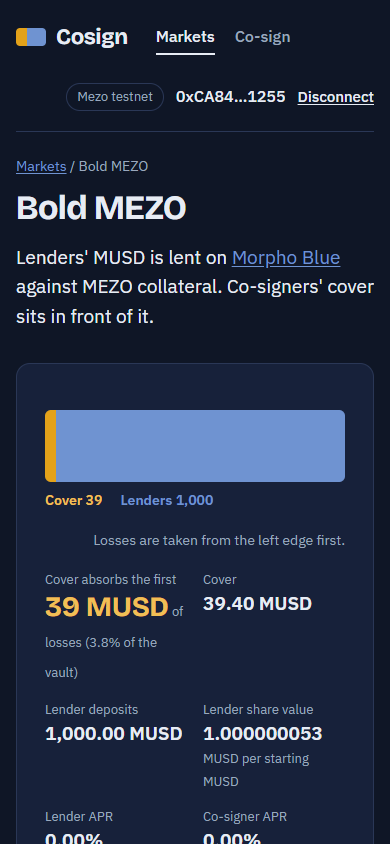
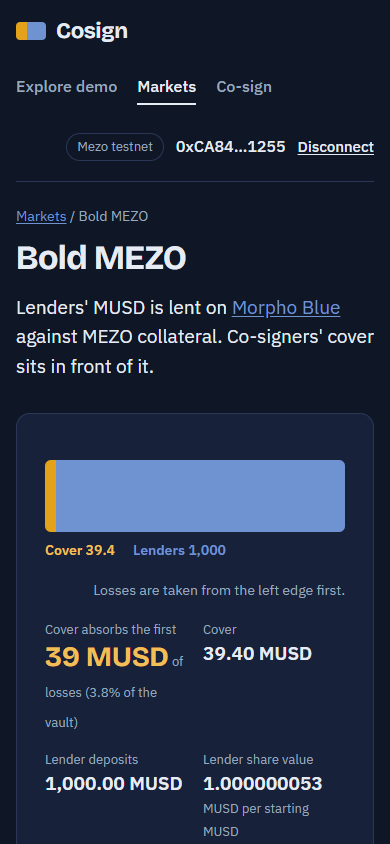
docs: add real-wallet acceptance checklist, refresh screenshots and README
The wallet checklist is marked not run; no browser-wallet flow is claimed
as passed.

diff --git a/docs/WALLET_ACCEPTANCE.md b/docs/WALLET_ACCEPTANCE.md
@@ -1,0 +1,107 @@
+# Real-wallet acceptance checklist
+
+**Status: BLOCKED. Not run.** The engineering session has no wallet extension, so no result below is a pass. Every row stays `NOT RUN` until a person completes it with MetaMask (or another EIP-1193 wallet) and records what they saw. The test-only wallet shim used during development is **not** valid evidence and must not be used here.
+
+Run it against the production build, so you test what judges will get:
+
+```bash
+cd web
+npm ci
+npm run build
+npm run preview        # serves the production bundle at http://localhost:4173
+```
+
+Open the printed URL in a browser with the wallet extension. (Once hosted, use the public URL instead.)
+
+## Before you start (about 20 minutes)
+
+Use a **fresh test account** in the wallet. Never use an account that holds real funds.
+
+| You need | How to get it (testnet only) |
+|---|---|
+| BTC for gas | Mezo testnet faucet. It has a CAPTCHA, so you complete it. |
+| MEZO | Mezo testnet faucet. |
+| MUSD | Open a small trove on Mezo testnet, **or** ask engineering to send testnet MUSD from the deployer wallet. Testnet tokens have no value. |
+| A veBTC lock (for voting) | Lock a little testnet BTC in Mezo's veBTC lock page, **or** ask engineering to transfer a testnet veBTC position to your account. |
+
+Suggested amounts: 150 MUSD, 20 MEZO, a few cents of testnet BTC for gas.
+
+## How to record a result
+
+For each row, write PASS, FAIL or SKIP, the date, and one line on what you saw. For any FAIL, attach a screenshot and the transaction link from the toast. Mark a row PASS only if the **expected** column happened exactly.
+
+## A. Connect, network, accounts
+
+| # | Steps | Expected | Result |
+|---|---|---|---|
+| A1 | Open the app in a browser **without** a wallet extension. Click Connect wallet. | A clear message that no browser wallet was found. Explore demo still works. | NOT RUN |
+| A2 | With the wallet installed, click Connect wallet. | Wallet asks for permission, then the header shows your short address and Disconnect. | NOT RUN |
+| A3 | Click Disconnect. | Header returns to Connect wallet. No positions shown. Reloading does not reconnect silently. | NOT RUN |
+| A4 | Remove Mezo testnet from the wallet, then Connect. | Wallet offers to add the network (chain 31611, RPC `rpc.test.mezo.org`, symbol BTC). Approve. | NOT RUN |
+| A5 | Switch the wallet to another network (for example Ethereum). | A red banner says the wallet is on another network, with a Switch button. Switch works. | NOT RUN |
+| A6 | Switch to a second account in the wallet while on a market page. | Positions update to the new account. The old account's numbers never show. | NOT RUN |
+| A7 | Reject the connect or network request in the wallet. | A plain message ("You rejected the request in your wallet."). No crash. | NOT RUN |
+
+## B. Lending (senior)
+
+| # | Steps | Expected | Result |
+|---|---|---|---|
+| B1 | Open a market that is **not** under-covered (post cover first in C2 if both are). Enter 10 MUSD and deposit. | Approve MUSD, then deposit. Each step shows "confirm in your wallet", then "waiting", then "done" with a transaction link. Your lender balance updates. | NOT RUN |
+| B2 | In the approval prompt, lower the spending cap below the deposit and confirm. | The app says the approved amount is too low and does not continue. | NOT RUN |
+| B3 | Try to deposit more than the market's room to lend. | A plain message that there is not that much room. No funds move. | NOT RUN |
+| B4 | Withdraw part, then all, of your lender balance. | Balance updates. If the Morpho market has too little unborrowed MUSD, a plain "not enough unborrowed MUSD" message appears. | NOT RUN |
+
+## C. Cover (junior) and withdrawal notice
+
+| # | Steps | Expected | Result |
+|---|---|---|---|
+| C1 | Co-sign page, Bold: post 20 MUSD cover. | Approve, then deposit. "Your cover" shows about 20. | NOT RUN |
+| C2 | Check "Opens room for up to…" before posting. | Shows 19 × the amount for Bold, 9 × for Steady. | NOT RUN |
+| C3 | Click Request to withdraw all cover. | A ready-at time appears. Your cover still shows and still pays losses until then. | NOT RUN |
+| C4 | Before the time passes, try to withdraw (use the wallet's contract interaction or reload and look for the button). | The Withdraw button is absent. If reachable, a plain "notice period has not ended" message. | NOT RUN |
+| C5 | After the time passes, click Withdraw cover. | Cover returns to your wallet. If it would drop the market below minimum cover, a plain message says so and nothing moves. | NOT RUN |
+
+## D. Voting and rewards
+
+| # | Steps | Expected | Result |
+|---|---|---|---|
+| D1 | Vote your veBTC position for a market where you hold cover. | Vote succeeds. Effective weight is the smaller of your votes and the market's cover cap. | NOT RUN |
+| D2 | Try to vote for a market where you hold **no** cover. | A plain "post cover on a market before voting for it" message. | NOT RUN |
+| D3 | Vote twice in one epoch with the same position. | A plain "already voted this epoch" message. | NOT RUN |
+| D4 | When rewards are available, click Claim. | MEZO arrives in the wallet. Pending drops to about 0. A second claim pays nothing. | NOT RUN |
+
+## E. Borrowing
+
+| # | Steps | Expected | Result |
+|---|---|---|---|
+| E1 | Add 5 MEZO as collateral on a market. | Approve MEZO, then supply. Collateral shows 5. | NOT RUN |
+| E2 | Borrow a small amount of MUSD. | MUSD arrives. LTV shown is below the market limit. | NOT RUN |
+| E3 | Try to borrow beyond the limit. | The transaction is refused with a readable message. Nothing moves. | NOT RUN |
+| E4 | Repay in full. | Debt returns to 0. | NOT RUN |
+| E5 | Withdraw your collateral. | MEZO returns to the wallet. | NOT RUN |
+
+## F. Resilience
+
+| # | Steps | Expected | Result |
+|---|---|---|---|
+| F1 | Start a transaction, confirm it, then reload the page immediately. | After reload, balances are correct once the transaction lands. No duplicate transaction. | NOT RUN |
+| F2 | Throttle the network (browser dev tools, "Slow 3G") and run any transaction. | The toast stays on "waiting" until the receipt arrives. It does not report a false failure for a transaction that succeeded. | NOT RUN |
+| F3 | Reject a transaction in the wallet. | A plain rejection message. The form is still usable. | NOT RUN |
+| F4 | Spend nearly all gas BTC, then try a transaction. | The wallet or app reports insufficient gas in plain words. No stuck spinner. | NOT RUN |
+| F5 | Open the app on a phone with the wallet's built-in browser. | Layout fits the screen with no sideways scroll. Connect and one transaction work. | NOT RUN |
+
+## G. Understanding (for a first-time visitor)
+
+| # | Steps | Expected | Result |
+|---|---|---|---|
+| G1 | Ask someone who has not seen Cosign to open the first page with no wallet and explain it back in their own words after 15 seconds. | They say cover pays losses first. | NOT RUN |
+| G2 | Replay the recorded loss and open its explorer link. | The transaction opens in the Mezo explorer and matches the numbers shown. | NOT RUN |
+| G3 | Find the limits without leaving the page. | They can say that cover can leave, that the deposit cap is not a borrowing cap, and that the price comes from a demo oracle. | NOT RUN |
+
+## Sign-off
+
+| Tester | Wallet and version | Browser | Date | Overall |
+|---|---|---|---|---|
+| | | | | NOT RUN |
+
+Do not describe browser-wallet flows as verified anywhere (README, pitch, submission) until section A to F are filled in with real results.

diff --git a/README.md b/README.md
@@ -7,7 +7,7 @@
   Unaudited prototype · Mezo testnet only · <a href="#security-and-limitations">Read the limits first</a>
 </p>
 
-<p align="center"><img src="docs/screenshots/readme-market.png" alt="The Bold MEZO market in the Cosign app: cover in front of lenders, with the guarantee panel" width="860"></p>
+<p align="center"><img src="docs/screenshots/readme-explore.png" alt="The wallet-free replay of the recorded 300.5 MUSD loss: cover shrinks from 400 to 99.5 MUSD while lenders' booked principal stays at 1,000" width="860"></p>
 
 ## Overview
 
@@ -46,7 +46,11 @@ External: Mezo MUSD, the MEZO precompile, and the Mezo veBTC contract.
 
 ## Product preview
 
-The app reads the deployed contracts directly. The bar shows capital in the order it is lost: cover first, then lenders.
+The first page of the app is a wallet-free **Explore demo**: a plain-language explanation, a comparison of the two markets, and a step-by-step replay of the recorded loss. It uses only the transactions recorded in `contracts/deployments/demo-run.json`; each step links to the real transaction in the Mezo explorer. Nothing on that page moves funds. Using your own wallet is a separate flow under **Markets** and **Co-sign**.
+
+<p align="center"><img src="docs/screenshots/readme-market.png" alt="The Bold MEZO market in the Cosign app: cover in front of lenders, with the guarantee panel" width="860"></p>
+
+The market pages read the deployed contracts directly. The bar shows capital in the order it is lost: cover first, then lenders.
 
 <p align="center"><img src="docs/screenshots/readme-losses.png" alt="Losses on this market: two liquidation losses, both paid entirely by cover, each linked to its block" width="860"></p>
 
@@ -100,6 +104,8 @@ npm ci
 npm run dev
 ```
 
+To run the production bundle exactly as it would be hosted: `npm run build && npm run preview`. Hosting notes are in [`docs/HOSTING.md`](docs/HOSTING.md).
+
 The app copies `contracts/deployments/31611.json` and `demo-run.json` into `web/public/` on start. Connecting a wallet requires an injected EIP-1193 wallet (for example MetaMask) on Mezo testnet; the app offers to add and switch the network.
 
 `web/src/devWallet.ts` is a test-only wallet shim used for screenshots and automated runs. It installs only under `vite dev` when a local, git-ignored `web/.env.development.local` exists, and it is absent from the production bundle.
@@ -116,6 +122,7 @@ To repeat the live demo you need your own funded testnet wallets: copy `.env.exa
 | Dependency audit (production) | `cd web && npm audit --omit=dev` | 0 vulnerabilities |
 | Deployment against chain | `python -I contracts/script/verify_deploy.py` | 43/43 |
 | Deployed bytecode against source | `python -I contracts/script/verify_bytecode.py` | 8/8 |
+| Browser-wallet flows (MetaMask) | [`docs/WALLET_ACCEPTANCE.md`](docs/WALLET_ACCEPTANCE.md) | **Not run.** Needs a person with a wallet; no flow is claimed as passed |
 
 CI ([`.github/workflows/ci.yml`](.github/workflows/ci.yml)) builds and tests the contracts and builds the app. It uses no wallets or secrets.
 
